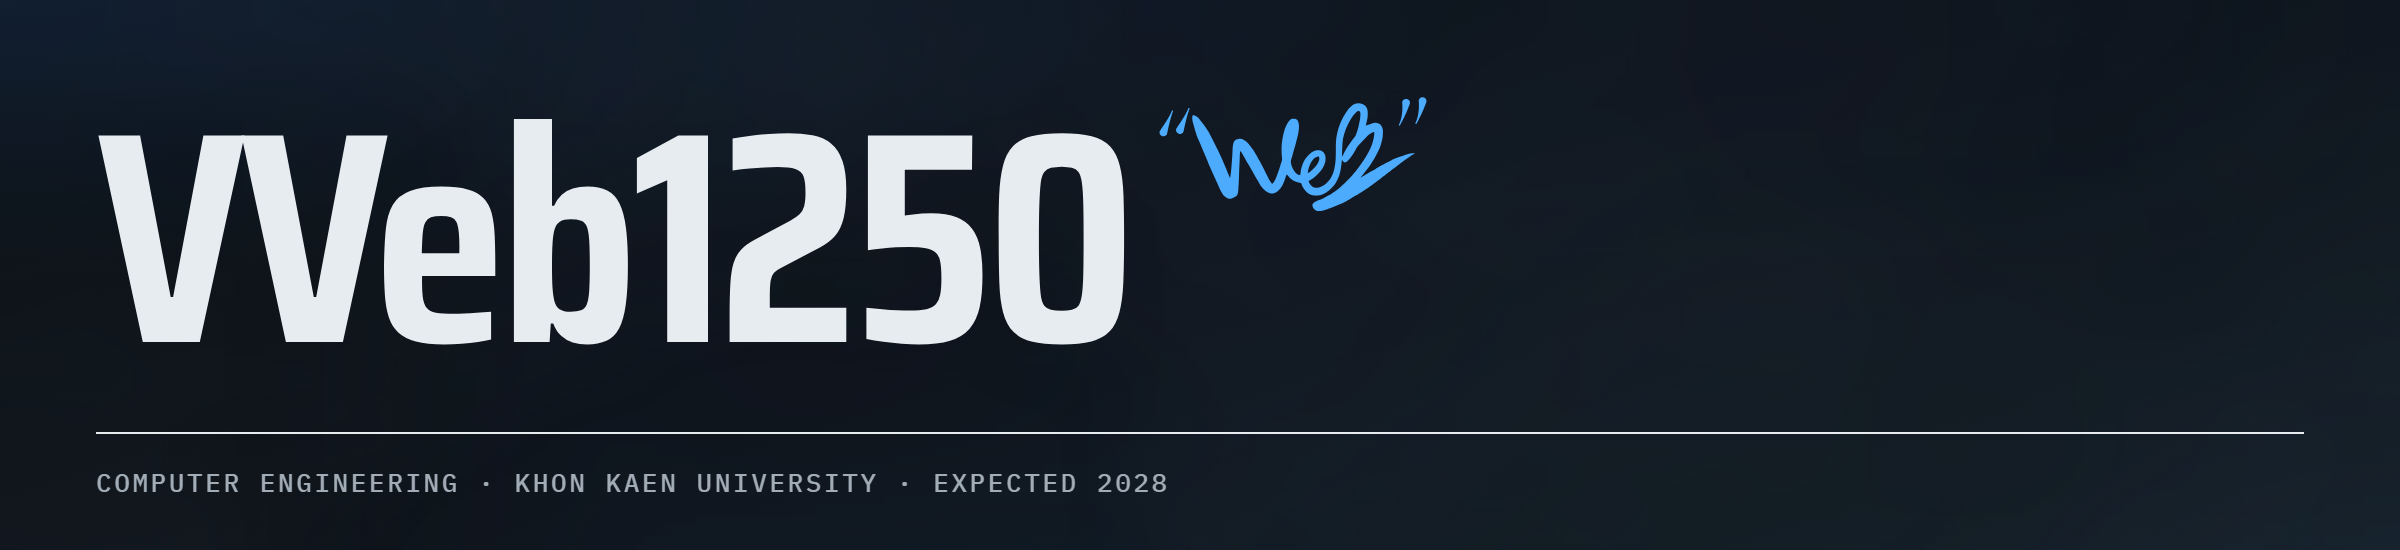
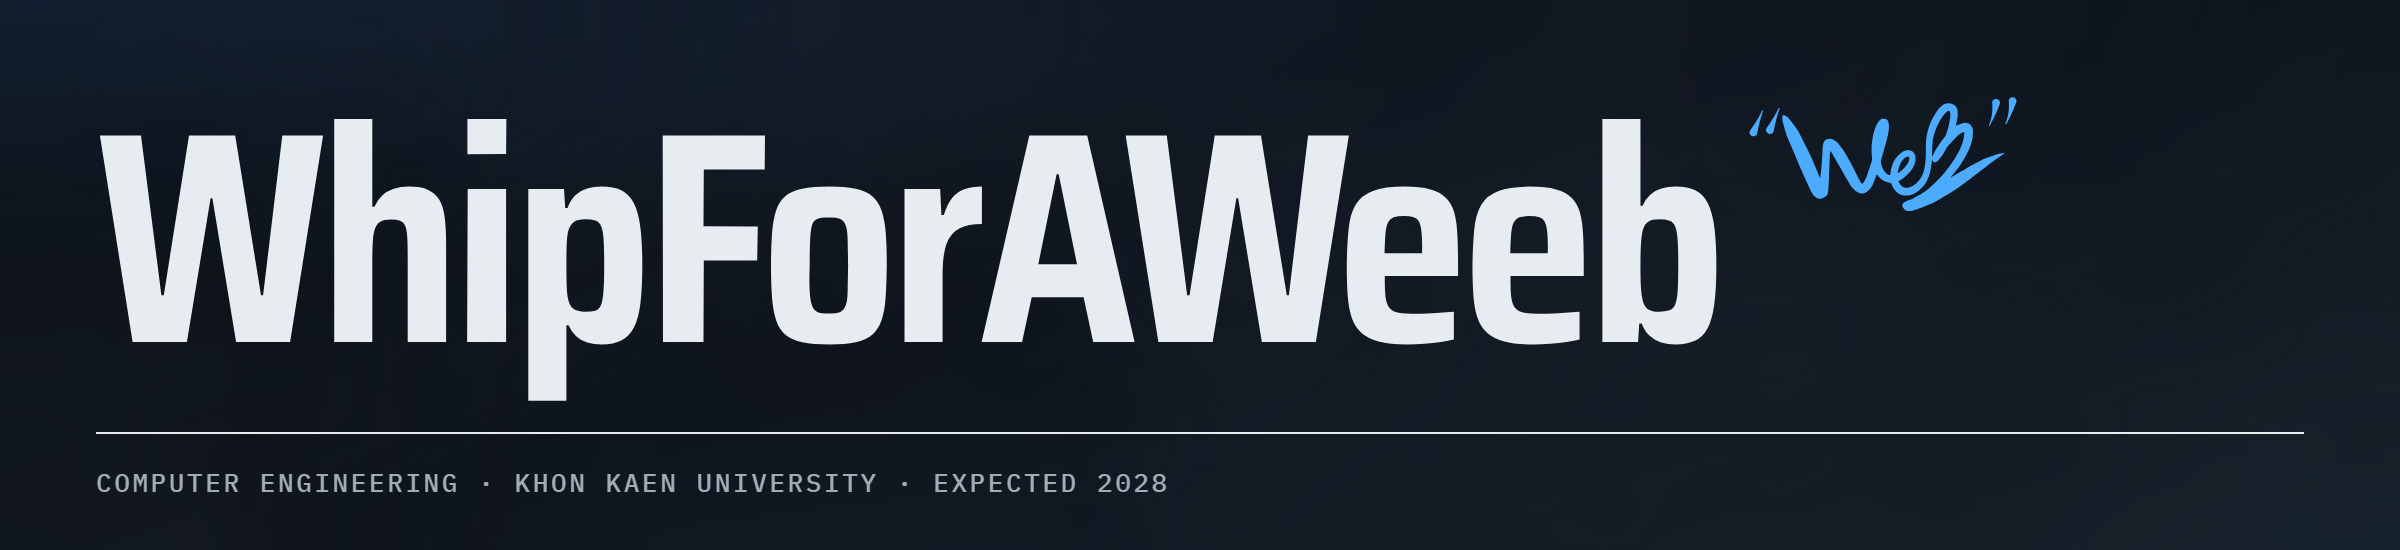
Profile README: WhipForAWeeb title, three cards drawn from the GitHub API
The title is the Pixiv handle now. Under the intro there are three cards in the
portfolio's tokens (square corners, hairlines, mono labels, one blue accent;
dark and light): contributions per week with the last push, the repos worth
opening, and the language mix of public repos. scripts/cards.mjs draws them
and a daily workflow refreshes them, so whoever opens the profile fetches
nothing from a third-party service.

Changed region(s): [[0.0312, 0.1855, 0.7188, 0.7418], [0.7188, 0.1855, 0.8438, 0.4018]]

diff --git a/README.md b/README.md
@@ -1,7 +1,7 @@
 <picture>
   <source media="(prefers-color-scheme: dark)" srcset="assets/banner-dark.png">
   <source media="(prefers-color-scheme: light)" srcset="assets/banner-light.png">
-  <img src="assets/banner-light.png" alt="VVeb1250. Computer Engineering, Khon Kaen University, expected 2028." width="100%">
+  <img src="assets/banner-light.png" alt="WhipForAWeeb. Computer Engineering, Khon Kaen University, expected 2028." width="100%">
 </picture>
 
 I build and test the support around AI coding tools: memory, skills and checks for when they get things wrong or forget.
@@ -10,16 +10,29 @@ I build and test the support around AI coding tools: memory, skills and checks f
 
 ---
 
+<picture>
+  <source media="(prefers-color-scheme: dark)" srcset="assets/cards/activity-dark.svg">
+  <img src="assets/cards/activity-light.svg" alt="Contributions in the last 12 months, per week" width="100%">
+</picture>
+
+<picture>
+  <source media="(prefers-color-scheme: dark)" srcset="assets/cards/repos-dark.svg">
+  <img src="assets/cards/repos-light.svg" alt="Repos worth opening: WhipUI, z80-workspace, assembly-yasm-helper" width="100%">
+</picture>
+
+<picture>
+  <source media="(prefers-color-scheme: dark)" srcset="assets/cards/languages-dark.svg">
+  <img src="assets/cards/languages-light.svg" alt="Languages across public repos" width="100%">
+</picture>
+
+---
+
 `NOW`
 
 - **Memory Base**: a memory that carries over between coding-assistant sessions. In the experiment phase.
 - **[WhipUI](https://github.com/VVeb1250/WhipUI)**: two skills for coding agents, one builds from a spec, one turns a rough request into UX and visual work. `npx whipui init`
 
-`WORTH OPENING`
-
-- [z80-workspace](https://github.com/VVeb1250/z80-workspace): a browser IDE for Z80 assembly ([live](https://vveb1250.github.io/z80-workspace/))
-- [assembly-yasm-helper](https://github.com/VVeb1250/assembly-yasm-helper): YASM / NASM support for VS Code, 155 installs
-- Merged upstream: [AgentsMesh #102](https://github.com/sampleXbro/agentsmesh/pull/102), [ai-config-sync-manager #28](https://github.com/slash9494/ai-config-sync-manager/pull/28)
+`UPSTREAM` Merged: [AgentsMesh #102](https://github.com/sampleXbro/agentsmesh/pull/102), [ai-config-sync-manager #28](https://github.com/slash9494/ai-config-sync-manager/pull/28)
 
 ---
 
